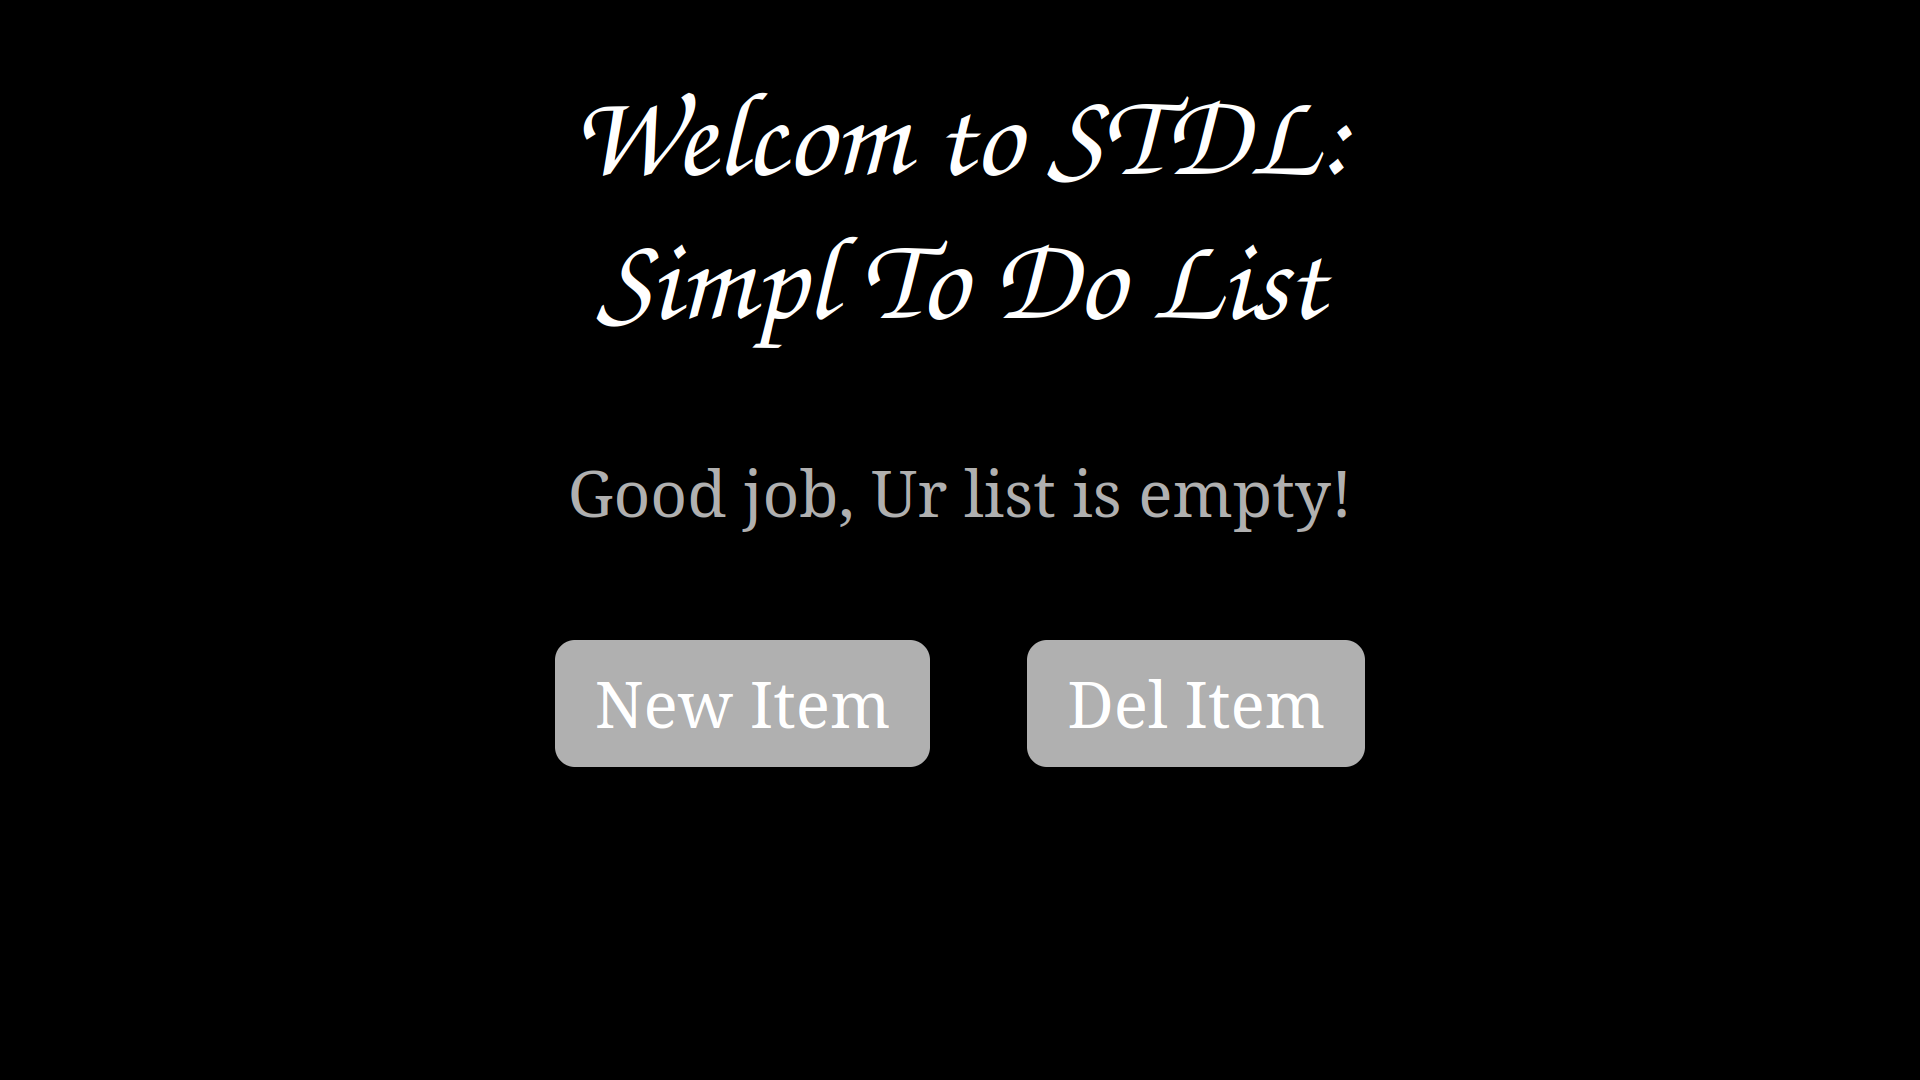
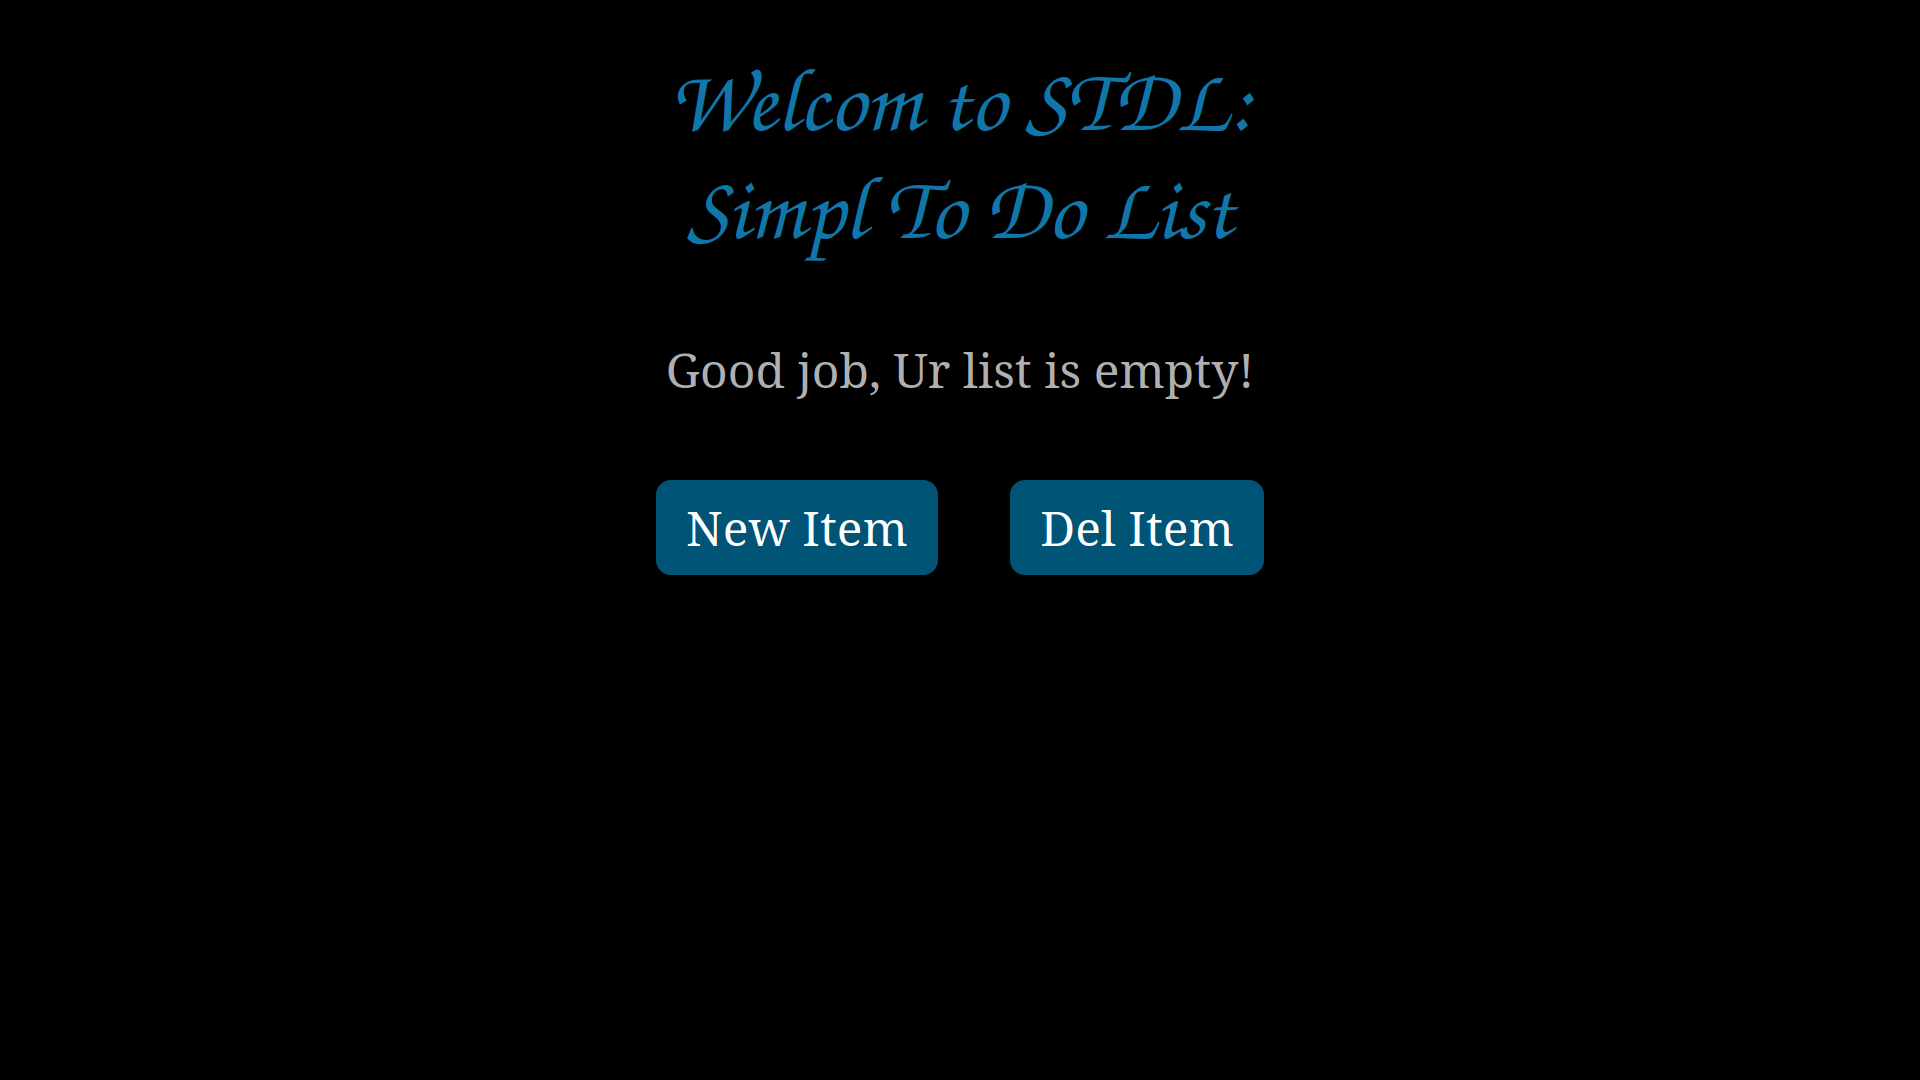
New Colors

diff --git a/src/main/static/main/styles.css b/src/main/static/main/styles.css
@@ -3,6 +3,7 @@ h1 {
     font-style: oblique;
     font-weight: lighter;
     font-size: 30px;
+    color: #1177AA;
 }
 
 body {
@@ -18,7 +19,7 @@ ol,li {
     font-style: oblique;
     border-style: groove;
     border-width: 2px;
-    border-color: #b4b4b4;
+    border-color: #1177AA;
     border-radius: 5px;
     align: center;
     text-align: center;
@@ -34,7 +35,7 @@ ol {
 
 
 .submit, a:link, a:visited {
-  background-color: #b0b0b0;
+  background-color: #005577;
   color: #FFFFFF;
   padding: 5px 10px;
   margin: 10px;
@@ -46,7 +47,7 @@ ol {
 }
 
 .submit:hover, .submit:active, a:hover, a:active {
-  background-color: #0000FF;
+  background-color: #1177AA;
 }
 
 input {
